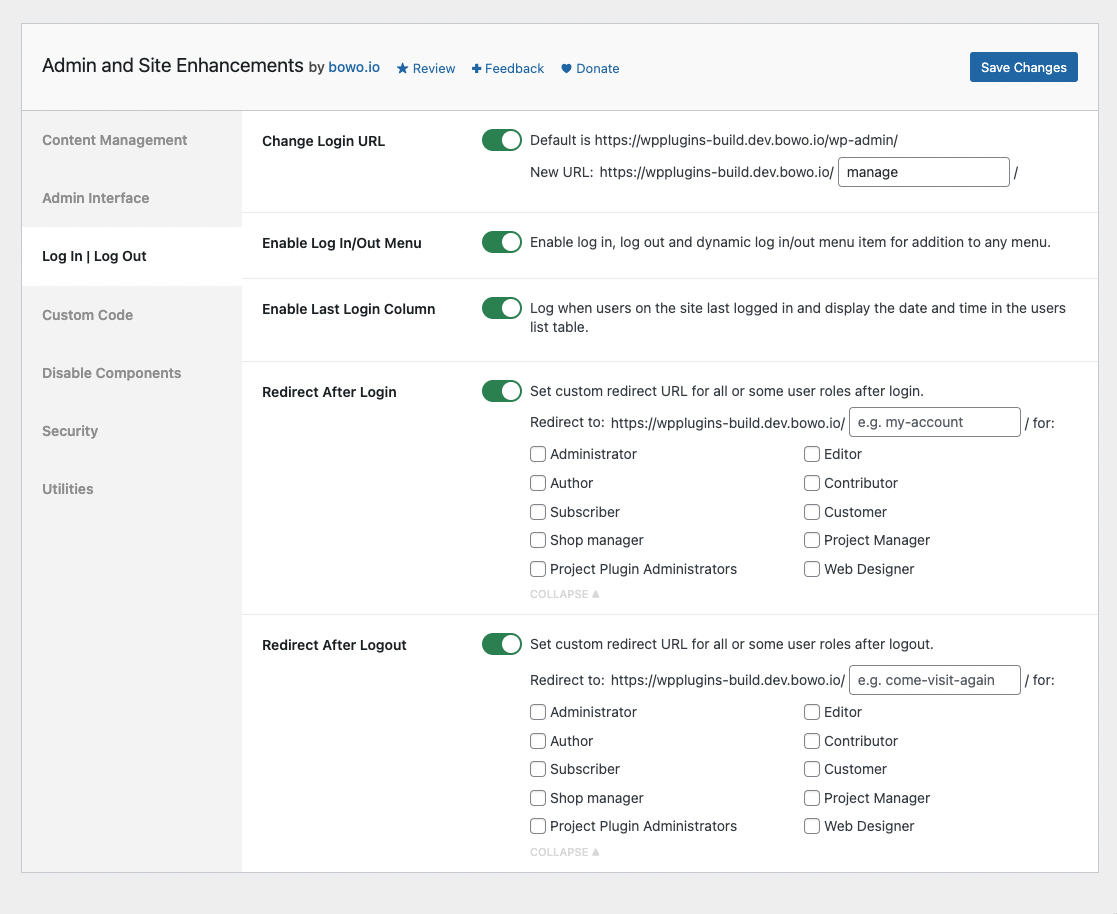
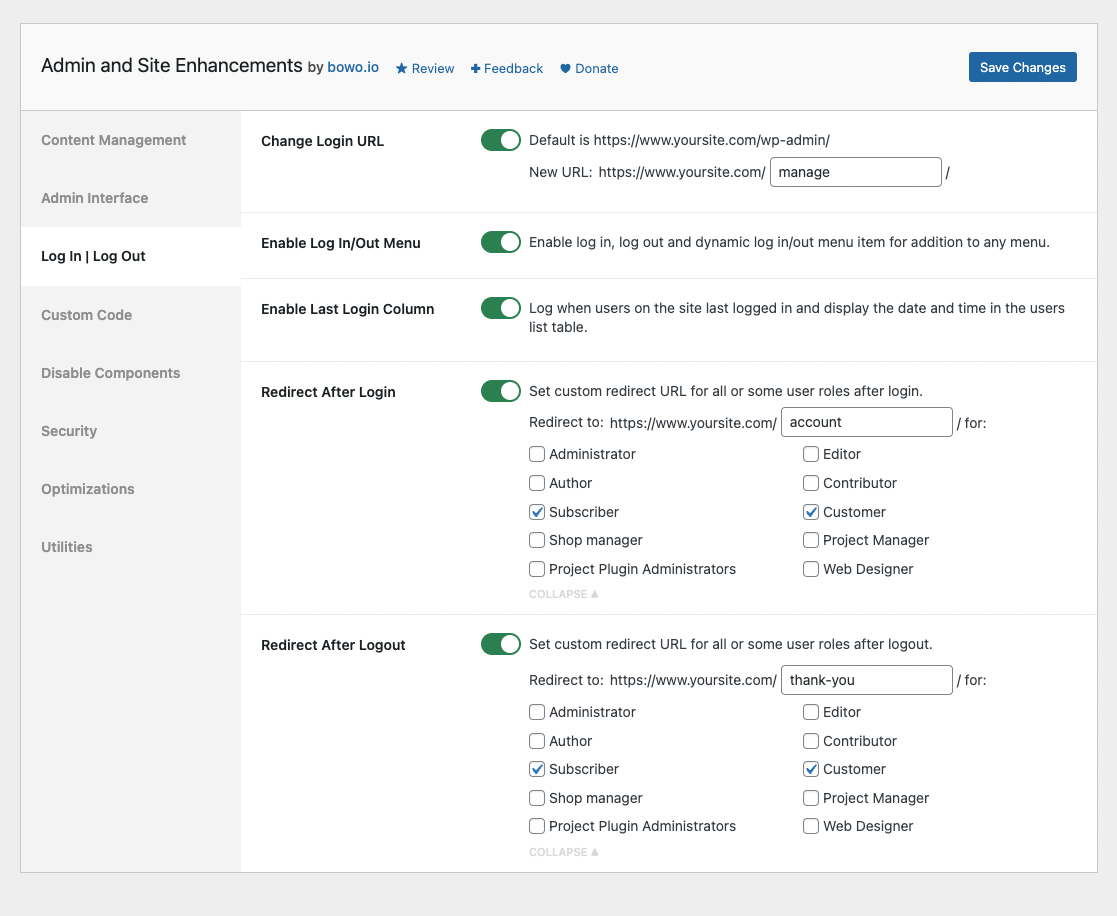
v3.8.0 release

diff --git a/admin-site-enhancements.php b/admin-site-enhancements.php
@@ -4,7 +4,7 @@
  * Plugin Name:       Admin and Site Enhancements
  * Plugin URI:        https://wordpress.org/plugins/admin-site-enhancements/
  * Description:       Easily enable enhancements and features that usually require multiple plugins.
- * Version:           3.7.0
+ * Version:           3.8.0
  * Author:            Bowo
  * Author URI:        https://bowo.io
  * License:           GPL-2.0+
@@ -18,7 +18,7 @@ if ( ! defined( 'ABSPATH' ) ) {
 	exit;
 }
 
-define( 'ASENHA_VERSION', '3.7.0' );
+define( 'ASENHA_VERSION', '3.8.0' );
 define( 'ASENHA_ID', 'asenha' );
 define( 'ASENHA_SLUG', 'admin-site-enhancements' );
 define( 'ASENHA_SLUG_U', 'admin_site_enhancements' );

diff --git a/README.md b/README.md
@@ -5,7 +5,7 @@ Donate link: https://paypal.me/qriouslad
 Tags: enhancements, tweaks, optimizations, tools  
 Requires at least: 4.6  
 Tested up to: 6.1.1  
-Stable tag: 3.7.0  
+Stable tag: 3.8.0  
 Requires PHP: 5.6  
 License: GPLv2 or later  
 License URI: http://www.gnu.org/licenses/gpl-2.0.html
@@ -75,6 +75,10 @@ Admin and Site Enhancements helps you to easily enhance various admin workflows 
 * **Obfuscate Author Slugs**. Obfuscate publicly exposed author page URLs that shows the user slugs / usernames, e.g. _sitename.com/author/username1/_ into _sitename.com/author/a6r5b8ytu9gp34bv/_, and output 404 errors for the original URLs. Also obfuscates in _/wp-json/wp/v2/users/_ REST API endpoint.
 * **Disable XML-RPC**. Protect your site from brute force, DOS and DDOS attacks via XML-RPC. Also disables trackbacks and pingbacks.
 
+### Optimizations
+
+* **Enable Heartbeat Control**. Modify the interval of the WordPress heartbeat API or disable it on admin pages, post creation/edit screens and/or the frontend. This will help reduce CPU load on the server.
+
 ### Utilities
 
 * **Redirect 404 to Homepage**. Perform 301 (permanent) redirect to the homepage for all 404 (not found) pages.
@@ -110,8 +114,10 @@ Admin and Site Enhancements will include more enhancements, tweaks and useful fe
    ![Disable Components](.wordpress-org/screenshot-5.png)
 6. Security
    ![Security](.wordpress-org/screenshot-6.png)
-7. Utilities
-   ![Utilities](.wordpress-org/screenshot-7.png)
+7. Optimizations
+   ![Optimizations](.wordpress-org/screenshot-7.png)
+8. Utilities
+   ![Utilities](.wordpress-org/screenshot-8.png)
 
 ## Frequently Asked Questions
 
@@ -120,6 +126,10 @@ Admin and Site Enhancements will include more enhancements, tweaks and useful fe
 Hoping that this is useful in reducing the number of plugins we install the first time we set up a site.
 
 ## Changelog
+
+### 3.8.0 (2022.12.27)
+
+* **[ADDED] Optimizations >> Enable Heartbeat Control**. Modify the interval of the WordPress heartbeat API or disable it on admin pages, post creation/edit screens and/or the frontend. This will help reduce CPU load on the server.
 
 ### 3.7.0 (2022.12.25)
 
